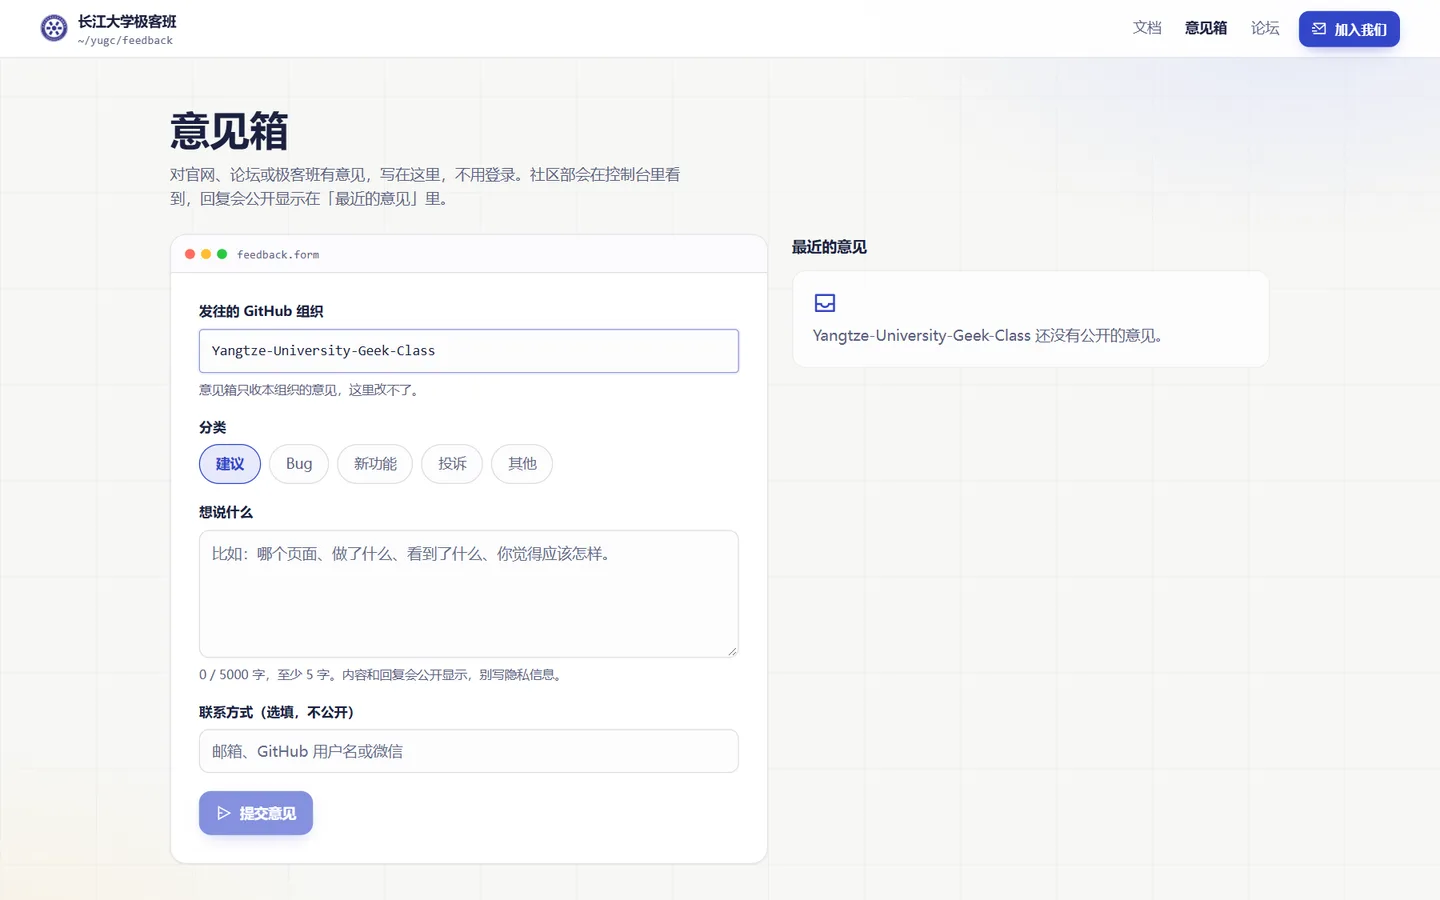
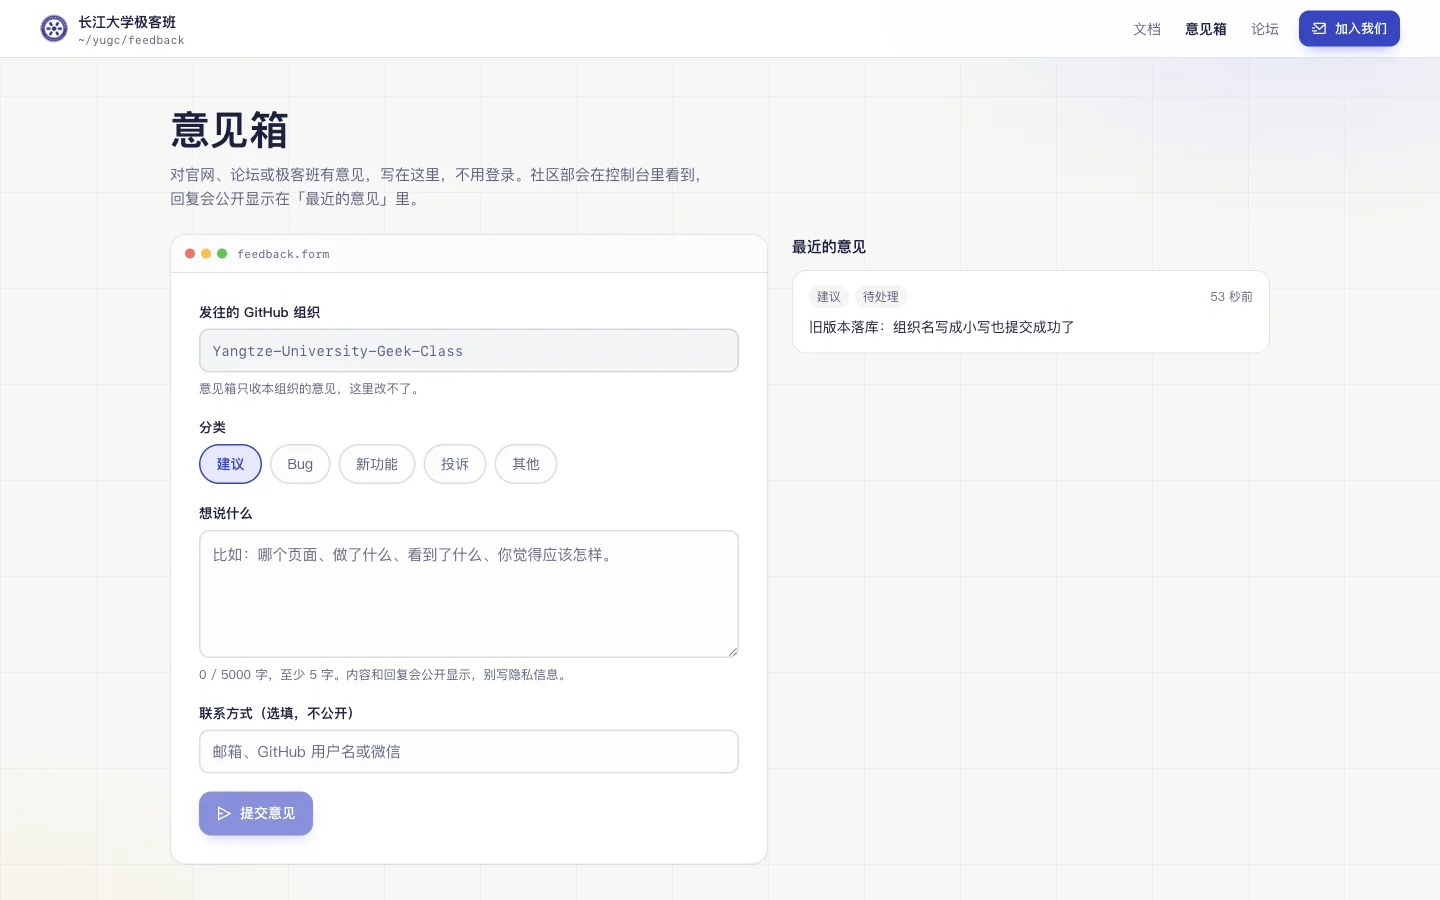
docs(portal): 意见箱截图换成返工后构建的改前改后对照
为什么改：原 docs/assets/feedback-org 只有两张接口用桩的桌面图，
after-desktop 也与返工后的只读框样式对不上（审查 F2、F6）。

改了什么：换成 stage 458999f 与 7b4c083 构建在本机隔离真实后端上拍的
改前改后图，桌面 1440×900 与手机 390×844 各一；执行记录写明验收过程
与结果。

怎么验证：ego 浏览器实拍，逐张看过；验收步骤与接口输出见执行记录。

Refs #129

diff --git a/notes/2026-10-02/lysnowq/task_129_feedback_org.md b/notes/2026-10-02/lysnowq/task_129_feedback_org.md
@@ -72,3 +72,9 @@
 - 执行者：agent-claude-geek-main-subagent-129（Claude Code 子代理，claude-opus-5-5，Crosery 一方接手）
 - 做了什么：浏览器核对 ee94850 的构建时发现：.pt-input[readonly]:hover（特异性 0,3,0）压过 .pt-input:focus（0,2,0），键盘聚焦后鼠标又停在框上时边框变回灰色，只剩焦点环。改成 .pt-input[readonly]:hover:not(:focus)
 - 结果：ego 浏览器 1440×900，本机隔离服务 127.0.0.1:5430：改前 {focus:true, hover:true, border:rgba(27,33,64,0.14)}；重新 pnpm --filter @yzgc/web build 后 {focus:true, hover:true, border:rgb(51,70,200)}，焦点环 rgba(51,70,200,0.12) 0 0 0 4px 两次都在
+
+## 20:36:35 +08:00 · 开发 · #129 · 最后一个代码提交 7b4c083 的构建在本机真实后端上走浏览器验收（审查 F2）
+
+- 执行者：agent-claude-geek-main-subagent-129（Claude Code 子代理，claude-opus-5-5，Crosery 一方接手）
+- 做了什么：独立审查 F2：原证据只有两张接口用桩的桌面图，没有手机图和真实后端。本机起隔离服务（/private/tmp 下的验收脚本，不入库：真实 buildApp 与路由、临时 SQLite 文件、POW_DIFFICULTY=1、假 GitHub 只认 alice 为组织 owner、发信与外部请求一律拒绝，静态托管该树的 web/console 构建产物；端口 5430 改后、5431 改前 stage 458999f、5432 改后且 CONSOLE_ORG=Some-Other-Org）。ego 浏览器（1440×900 与 390×844 DPR3 触屏）走：改前小写组织名与别的组织都提交成功、控制台一条也看不到；用 stage 构建往同一个库写两条旧数据后换 7b4c083 构建启动，小写那条被归一、别的组织那条留在库里不公开；改后桌面与手机各提交一条，成功提示与「最近的意见」都出现；/feedback/some-random-org 仍发本站组织；控制台意见箱看到三条；Tab 从导航第 6 下停在只读组织框，无障碍树 textbox「发往的 GitHub 组织」readonly、描述为说明文字；部署换组织时页面照服务端下发的 Some-Other-Org 展示并提交成功。docs/assets/feedback-org 的截图换成这次构建的改前改后桌面与手机各一（原 after-desktop 已与返工后的样式对不上）
+- 结果：截图 12 张与接口输出在 /private/tmp/geek-evidence/129/（主控上传到 PR）；接口：POST org=some-random-org → 400 意见箱只接收「Yangtze-University-Geek-Class」组织的意见，小写 → 200 且存成规范写法，GET public 别的组织 → {items:[]}，重复 org → 400 validation_error，40 字 org → 400；启动后库里 org 为 Yangtze-University-Geek-Class 与 some-random-org。同一 HEAD：fnm exec --using=22.23.2 corepack pnpm check 退出 0；vitest run tests/server tests/web：Test Files 30 passed，Tests 388 passed (388)。不是预发布验收，prev 环境未验证
